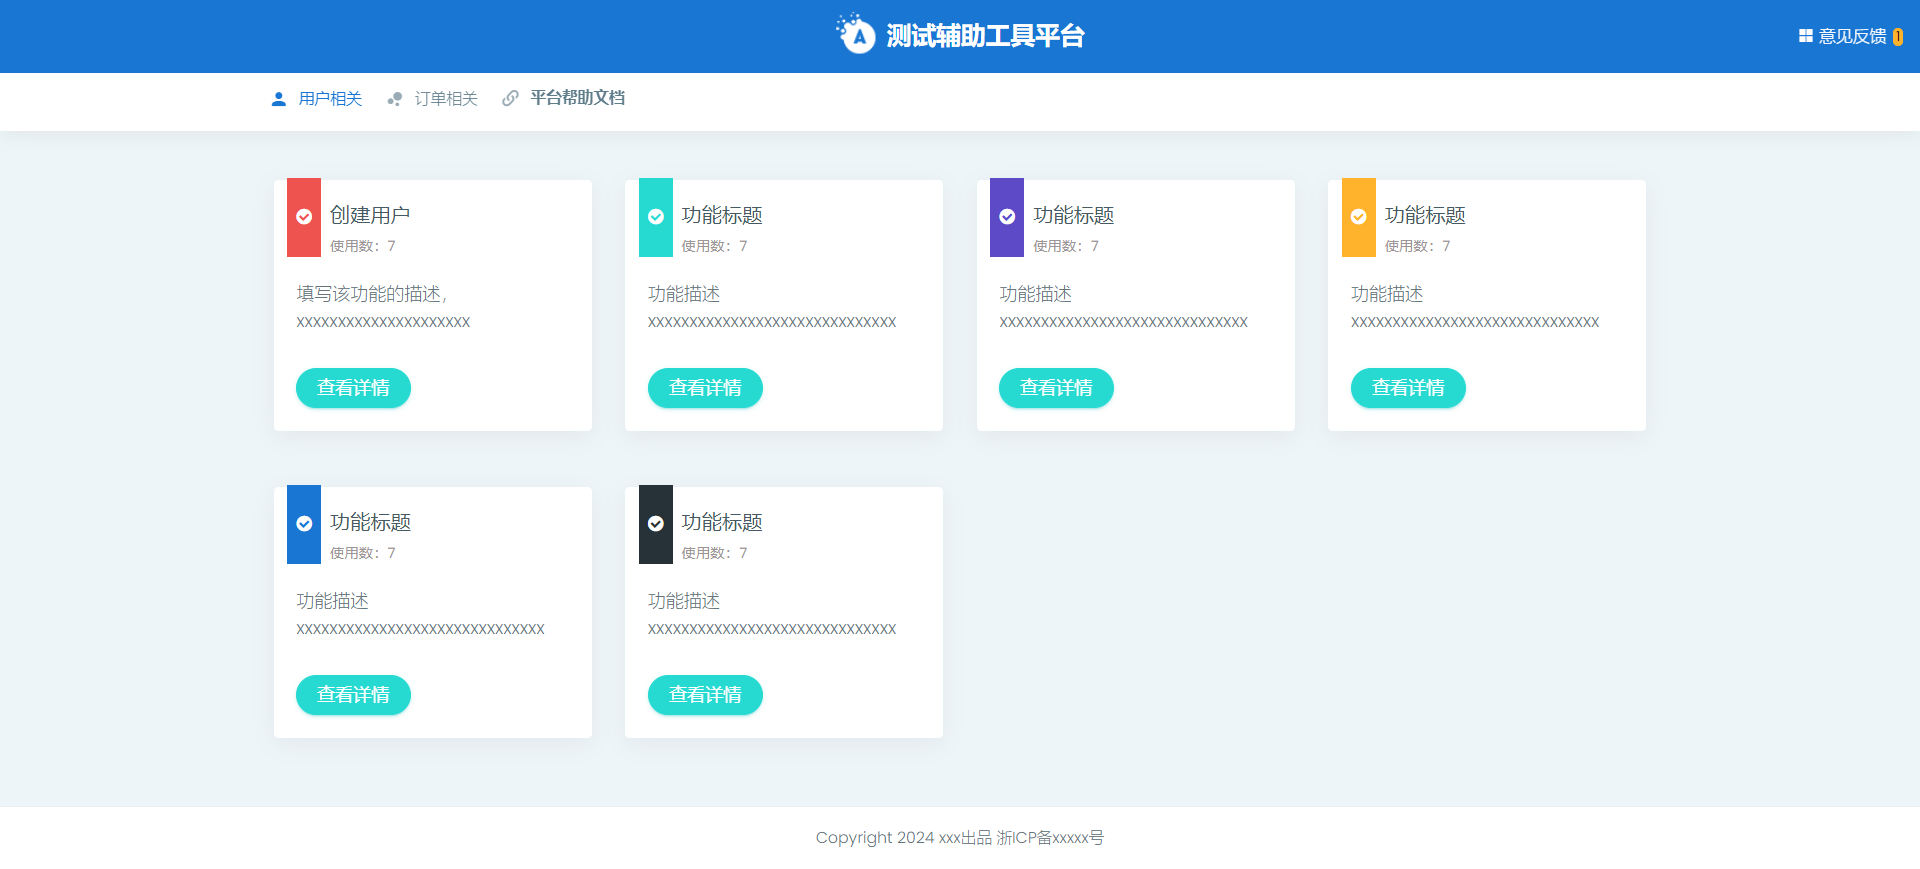
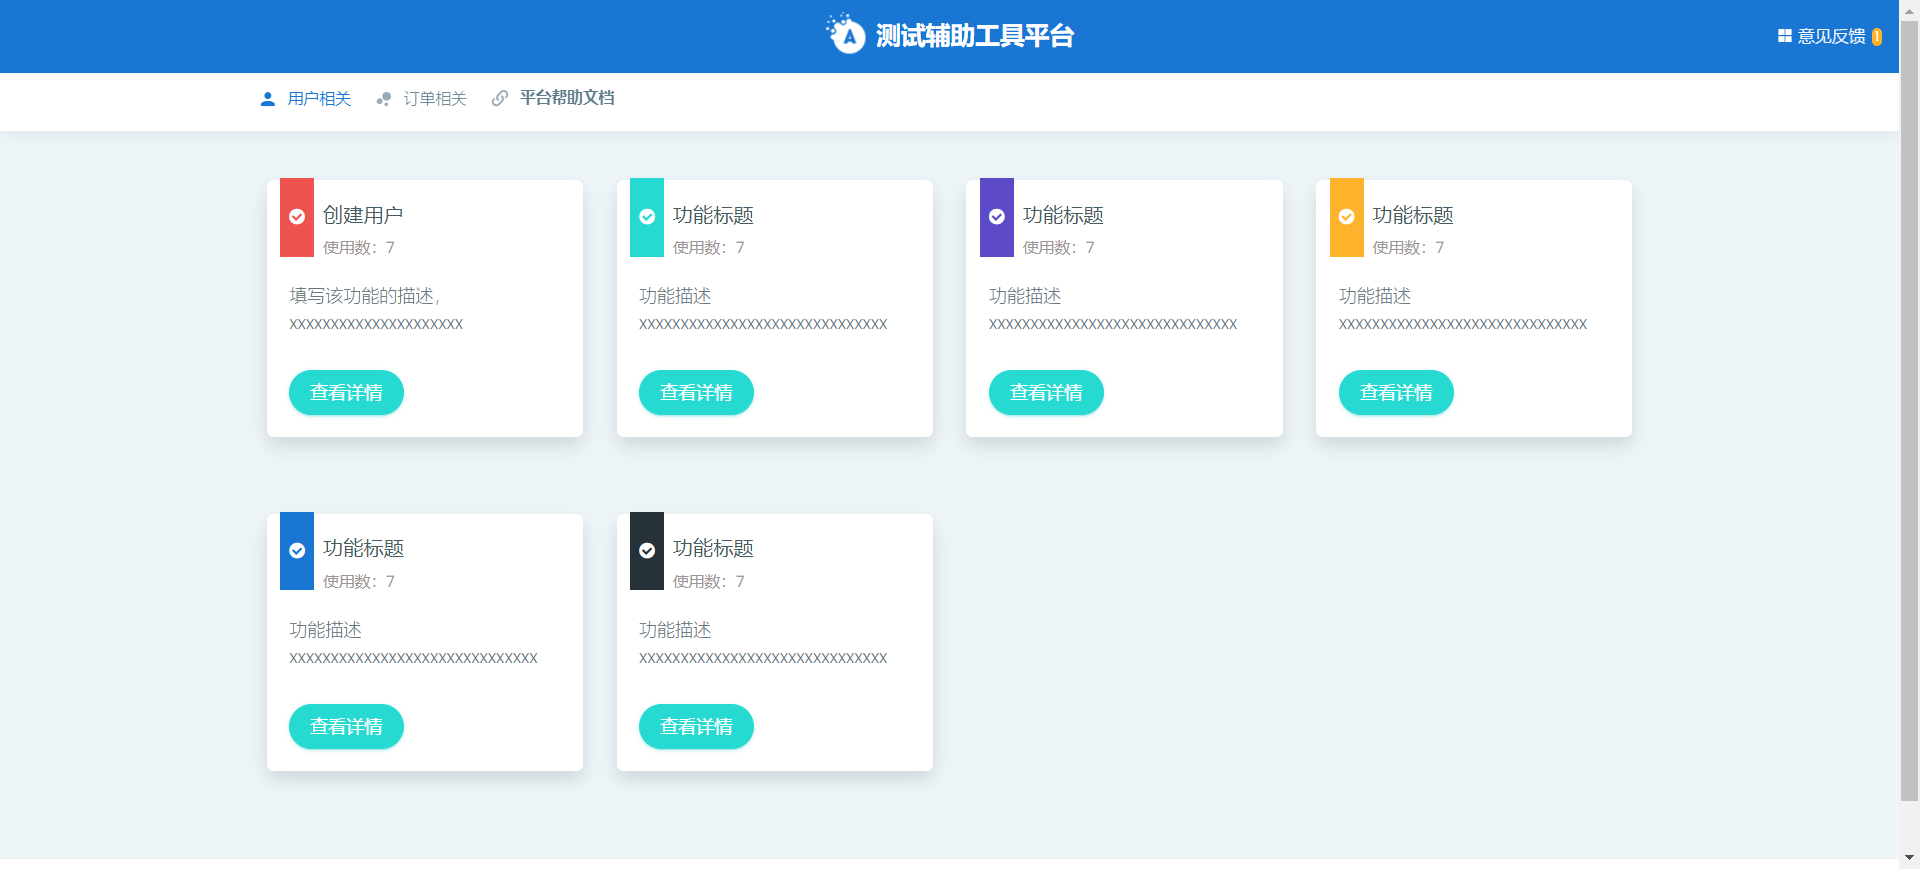
第一版

diff --git a/static/templates/base_user.html b/static/templates/base_user.html
@@ -49,7 +49,7 @@
                 <div class="row">
                     <!-- Column -->
                     <div class="col-lg-3">
-                        <div class="card">
+                        <div class="card shadow mb-5 bg-white rounded">
                             <div class="color-bar">
                             </div>
 <!--                            <img class="card-img-top img-responsive" src=" {% static 'picture/img1.jpg' %}" alt="Card image cap">-->
@@ -68,7 +68,7 @@
                     <!-- Column -->
                     <!-- Column -->
                     <div class="col-lg-3">
-                        <div class="card">
+                        <div class="card shadow mb-5 bg-white rounded">
                             <div class="color-bar">
                             </div>
 <!--                            <img class="card-img-top img-responsive" src=" {% static 'picture/img1.jpg' %}" alt="Card image cap">-->
@@ -87,7 +87,7 @@
                     <!-- Column -->
                     <!-- Column -->
                     <div class="col-lg-3">
-                        <div class="card">
+                        <div class="card shadow mb-5 bg-white rounded">
                             <div class="color-bar">
                             </div>
 <!--                            <img class="card-img-top img-responsive" src=" {% static 'picture/img1.jpg' %}" alt="Card image cap">-->
@@ -106,7 +106,7 @@
                     <!-- Column -->
 					<!-- Column -->
                     <div class="col-lg-3">
-                        <div class="card">
+                        <div class="card shadow mb-5 bg-white rounded">
                             <div class="color-bar">
                             </div>
 <!--                            <img class="card-img-top img-responsive" src=" {% static 'picture/img1.jpg' %}" alt="Card image cap">-->
@@ -127,7 +127,7 @@
 				<div class="row" style="margin-top: 20px">
                     <!-- Column -->
                     <div class="col-lg-3">
-                        <div class="card">
+                        <div class="card shadow mb-5 bg-white rounded">
                             <div class="color-bar">
                             </div>
 <!--                            <img class="card-img-top img-responsive" src=" {% static 'picture/img1.jpg' %}" alt="Card image cap">-->
@@ -146,7 +146,7 @@
                     <!-- Column -->
                     <!-- Column -->
                     <div class="col-lg-3">
-                        <div class="card">
+                        <div class="card shadow mb-5 bg-white rounded">
                             <div class="color-bar">
                             </div>
 <!--                            <img class="card-img-top img-responsive" src=" {% static 'picture/img1.jpg' %}" alt="Card image cap">-->

diff --git a/static/templates/base_order.html b/static/templates/base_order.html
@@ -57,7 +57,7 @@
                 <div class="row">
                     <!-- Column -->
                     <div class="col-lg-3">
-                        <div class="card">
+                        <div class="card shadow mb-5 bg-white rounded">
                             <div class="color-bar">
                             </div>
 <!--                            <img class="card-img-top img-responsive" src=" {% static 'picture/img1.jpg' %}" alt="Card image cap">-->

diff --git a/static/templates/base.html b/static/templates/base.html
@@ -58,6 +58,19 @@
         margin-left: 400px;
         margin-top: 80px;
     }
+    .card-body {
+        padding: 1.25rem;
+    }
+    .col-lg-3 {
+        padding-right: 15px;
+        padding-left: 15px
+    }
+    a {
+        text-decoration: none;
+    }
+    .hide-menu {
+        font-size: 16px;
+    }
 </style>
 
 <body class="fix-header card-no-border logo-center">
